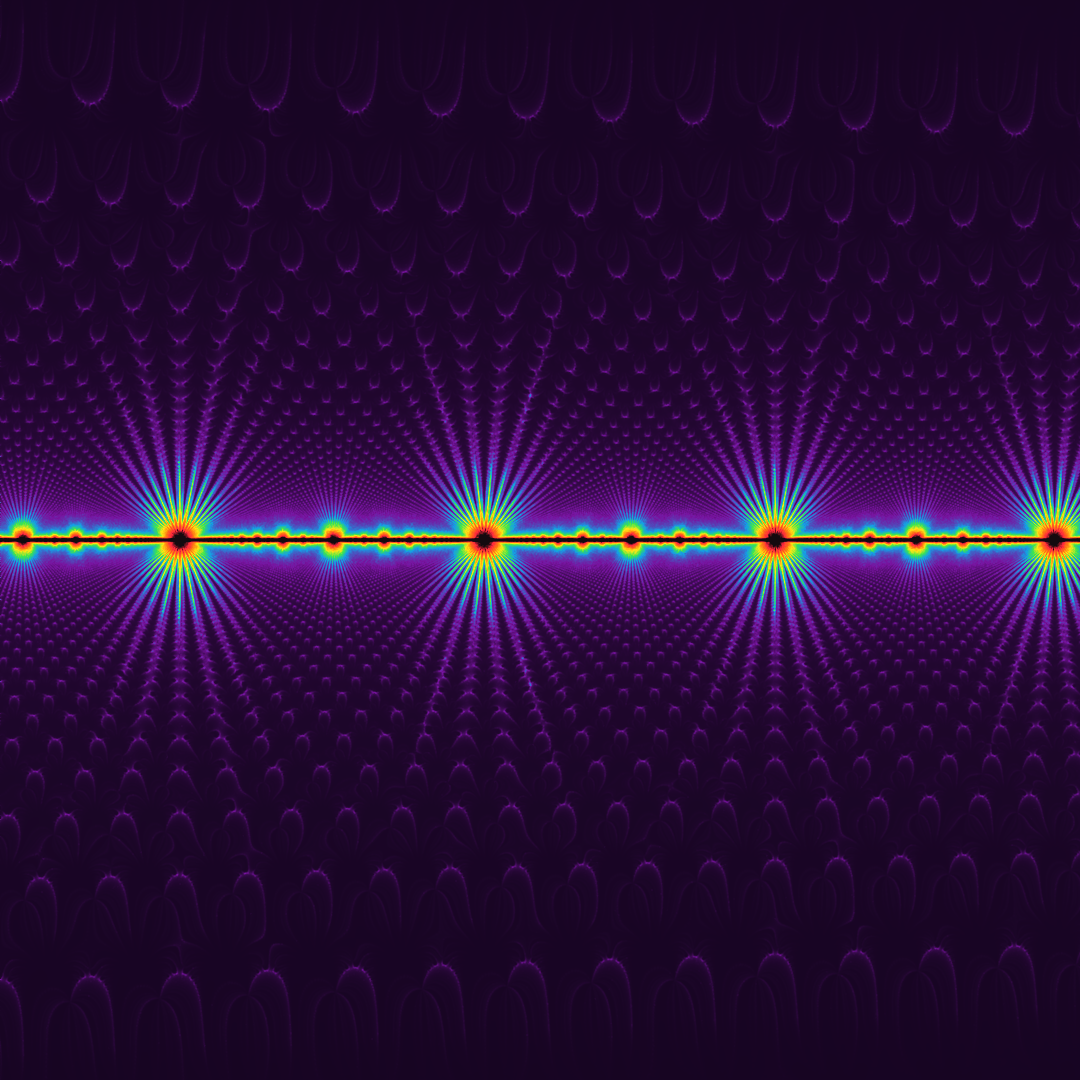
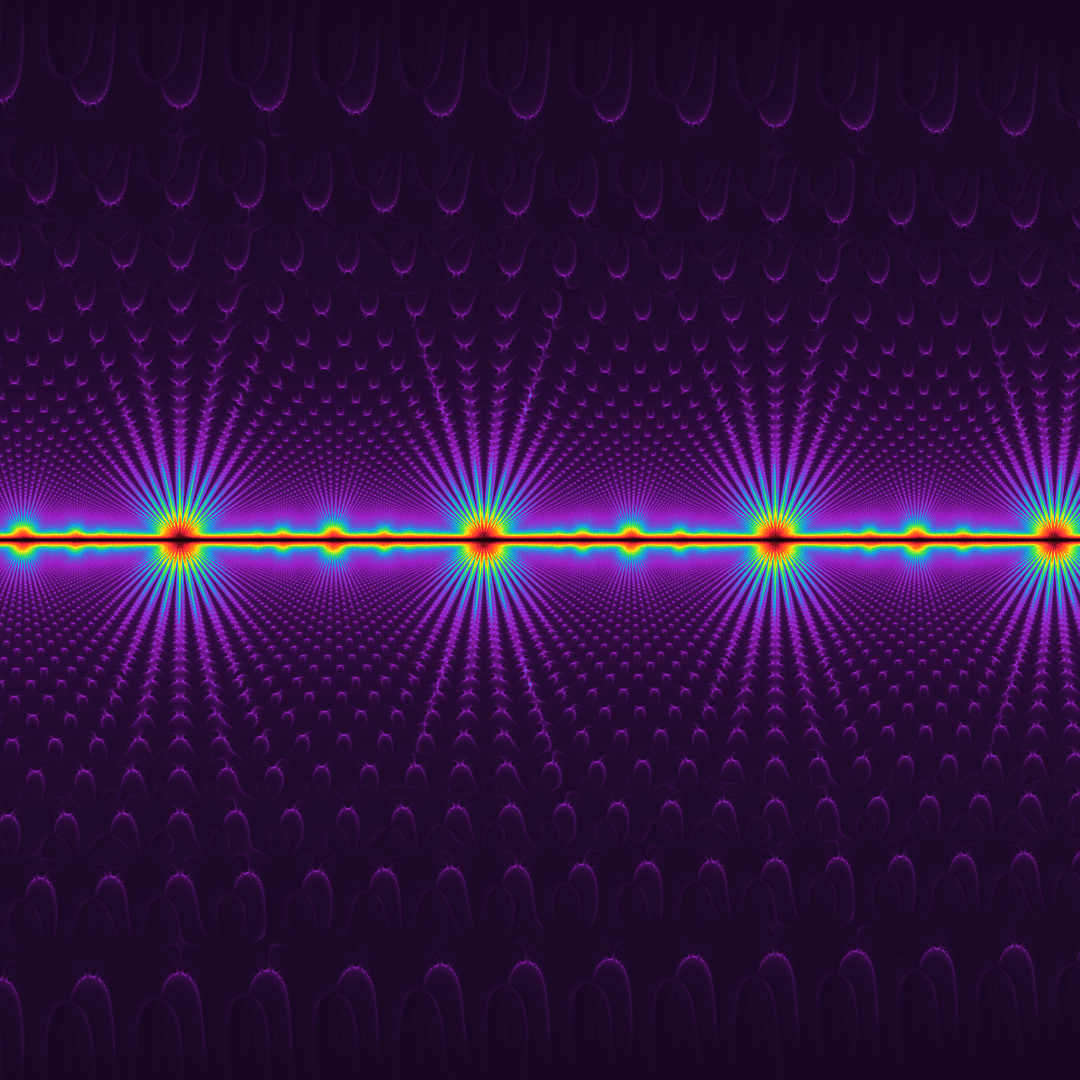
Edit default gradient and re-render presets

Changed region(s): [[0.0, 0.3667, 1.0, 0.6417]]

diff --git a/src/rendering.rs b/src/rendering.rs
@@ -25,8 +25,6 @@ pub struct RenderingCtx<'a> {
     pub sampling: Sampling,
     pub sampling_points: &'a [(F, F)],
 
-    pub diverging_areas: &'a Option<Vec<[F; 4]>>,
-
     pub start: Instant,
     pub stdout: &'a Stdout,
 }
@@ -43,7 +41,6 @@ pub fn render_raw_image(
         max_iter,
         sampling,
         sampling_points,
-        diverging_areas,
         start,
         stdout,
         ..
@@ -72,66 +69,50 @@ pub fn render_raw_image(
             let x = i as F;
             let y = j as F;
 
-            let should_render = {
-                let x = x_min + width * x / img_width as F;
-                let y = y_min + height * y / img_height as F;
-
-                diverging_areas
-                    .as_ref()
-                    .map(|areas| {
-                        !areas.iter().any(|&[min_x, max_x, min_y, max_y]| {
-                            min_x <= x && x <= max_x && -max_y <= y && y <= -min_y
-                        })
-                    })
-                    .unwrap_or(true)
-            };
-
-            if should_render {
-                let (offset_x, offset_y) = if sampling.random_offsets {
-                    #[cfg(feature = "force_f32")]
-                    let v = (rng.f32(), rng.f32());
-                    #[cfg(not(feature = "force_f32"))]
-                    let v = (rng.f64(), rng.f64());
-
-                    v
-                } else {
-                    (0., 0.)
-                };
-                let sampling_points = sampling_points
-                    .iter()
-                    .map(|&(dx, dy)| map_points_with_offsets(dx, dy, offset_x, offset_y))
-                    .collect::<Vec<_>>();
-
+            let (offset_x, offset_y) = if sampling.random_offsets {
                 #[cfg(feature = "force_f32")]
-                const CHUNK_SIZE: usize = 8;
+                let v = (rng.f32(), rng.f32());
                 #[cfg(not(feature = "force_f32"))]
-                const CHUNK_SIZE: usize = 4;
-                let value = sampling_points
-                    .chunks(CHUNK_SIZE)
-                    .flat_map(|d| {
-                        let l = d.len();
-                        let re = FX::from(array::from_fn(|i| {
-                            // Here we use `i % l` to avoid out of bounds error (when i < 4).
-                            // When `i < 4`, the modulo operation will repeat the sample
-                            // but as we use simd this is acceptable (the cost is the
-                            // same whether it is computed along with the others or not).
-                            let (dx, _) = d[i % l];
-                            x_min + width * (x + 0.5 + dx) / img_width as F
-                        }));
-                        let im = FX::from(array::from_fn(|i| {
-                            let (_, dy) = d[i % l];
-                            y_min + height * (y + 0.5 + dy) / img_height as F
-                        }));
+                let v = (rng.f64(), rng.f64());
 
-                        let iter = fractal.sample(Complexx { re, im }, max_iter);
+                v
+            } else {
+                (0., 0.)
+            };
+            let sampling_points = sampling_points
+                .iter()
+                .map(|&(dx, dy)| map_points_with_offsets(dx, dy, offset_x, offset_y))
+                .collect::<Vec<_>>();
 
-                        (0..l).map(move |i| iter[i])
-                    })
-                    .sum::<F>()
-                    / sampling_points.len() as F;
+            #[cfg(feature = "force_f32")]
+            const CHUNK_SIZE: usize = 8;
+            #[cfg(not(feature = "force_f32"))]
+            const CHUNK_SIZE: usize = 4;
+            let value = sampling_points
+                .chunks(CHUNK_SIZE)
+                .flat_map(|d| {
+                    let l = d.len();
+                    let re = FX::from(array::from_fn(|i| {
+                        // Here we use `i % l` to avoid out of bounds error (when i < 4).
+                        // When `i < 4`, the modulo operation will repeat the sample
+                        // but as we use simd this is acceptable (the cost is the
+                        // same whether it is computed along with the others or not).
+                        let (dx, _) = d[i % l];
+                        x_min + width * (x + 0.5 + dx) / img_width as F
+                    }));
+                    let im = FX::from(array::from_fn(|i| {
+                        let (_, dy) = d[i % l];
+                        y_min + height * (y + 0.5 + dy) / img_height as F
+                    }));
 
-                s.send(((i, j), value)).unwrap();
-            }
+                    let iter = fractal.sample(Complexx { re, im }, max_iter);
+
+                    (0..l).map(move |i| iter[i])
+                })
+                .sum::<F>()
+                / sampling_points.len() as F;
+
+            s.send(((i, j), value)).unwrap();
 
             progress.incr();
 

diff --git a/src/params.rs b/src/params.rs
@@ -2,7 +2,7 @@ mod render;
 
 use serde::{Deserialize, Serialize};
 
-use crate::{coloring::ColoringMode, sampling::Sampling, F};
+use crate::{coloring::ColoringMode, sampling::Sampling};
 pub use {render::Render, render::RenderStep};
 
 #[derive(Debug, Serialize, Deserialize)]
@@ -17,8 +17,6 @@ pub struct FractalParams {
     pub sampling: Sampling,
 
     pub custom_gradient: Option<Vec<(f32, [u8; 3])>>,
-
-    pub diverging_areas: Option<Vec<[F; 4]>>,
 
     pub dev_options: Option<DevOptions>,
 }

diff --git a/src/main.rs b/src/main.rs
@@ -75,7 +75,6 @@ fn main() -> Result<()> {
                 sampling,
                 coloring_mode,
                 custom_gradient,
-                diverging_areas,
                 dev_options,
             } = params;
 
@@ -103,7 +102,6 @@ fn main() -> Result<()> {
                 max_iter,
                 sampling,
                 sampling_points: &sampling_points,
-                diverging_areas: &diverging_areas,
                 start,
                 stdout: &stdout,
             };

diff --git a/src/coloring.rs b/src/coloring.rs
@@ -39,14 +39,14 @@ impl MapValue {
 }
 
 const DEFAULT_GRADIENT: [(f32, [u8; 3]); 8] = [
-    (0., [20, 5, 30]),
-    (0.1, [120, 20, 160]),
+    (0., [20, 8, 30]),
+    (0.1, [160, 30, 200]),
     (0.25, [20, 160, 230]),
     (0.4, [60, 230, 80]),
     (0.55, [255, 230, 20]),
     (0.7, [255, 120, 20]),
     (0.85, [255, 40, 60]),
-    (0.95, [20, 10, 15]),
+    (1., [20, 2, 10]),
 ];
 
 pub fn color_mapping(t: F, custom_gradient: Option<&Vec<(f32, [u8; 3])>>) -> Rgb<u8> {

diff --git a/src/fractal.rs b/src/fractal.rs
@@ -396,8 +396,9 @@ impl Fractal {
             }
         };
 
-        // let s = _last_z.norm_sqr().ln().log2();
-        // (iter + one - s.min(100. * one)).to_array()
+        // let s = _last_z.norm_sqr().ln().ln();
+        // (iter + one - s.min(20. * one)).to_array()
+        // (iter + one - s).to_array()
 
         iter.to_array()
     }

diff --git a/REFERENCE.md b/REFERENCE.md
@@ -101,19 +101,6 @@
   )
   ```
 
-- `diverging_areas` _(optional)_: This allows setting areas where computing pixel values will be skipped assuming they diverge.
-
-  ```rust
-  (
-    ..
-    diverging_areas: Some([
-        (min_x, max_x, min_y, max_y),
-        ..
-    ]),
-    ..
-  )
-  ```
-
 - `dev_options` _(optional)_: For development purposes.
 
   - `save_sampling_pattern` _(bool)_: Save the sampling pattern as an image.
